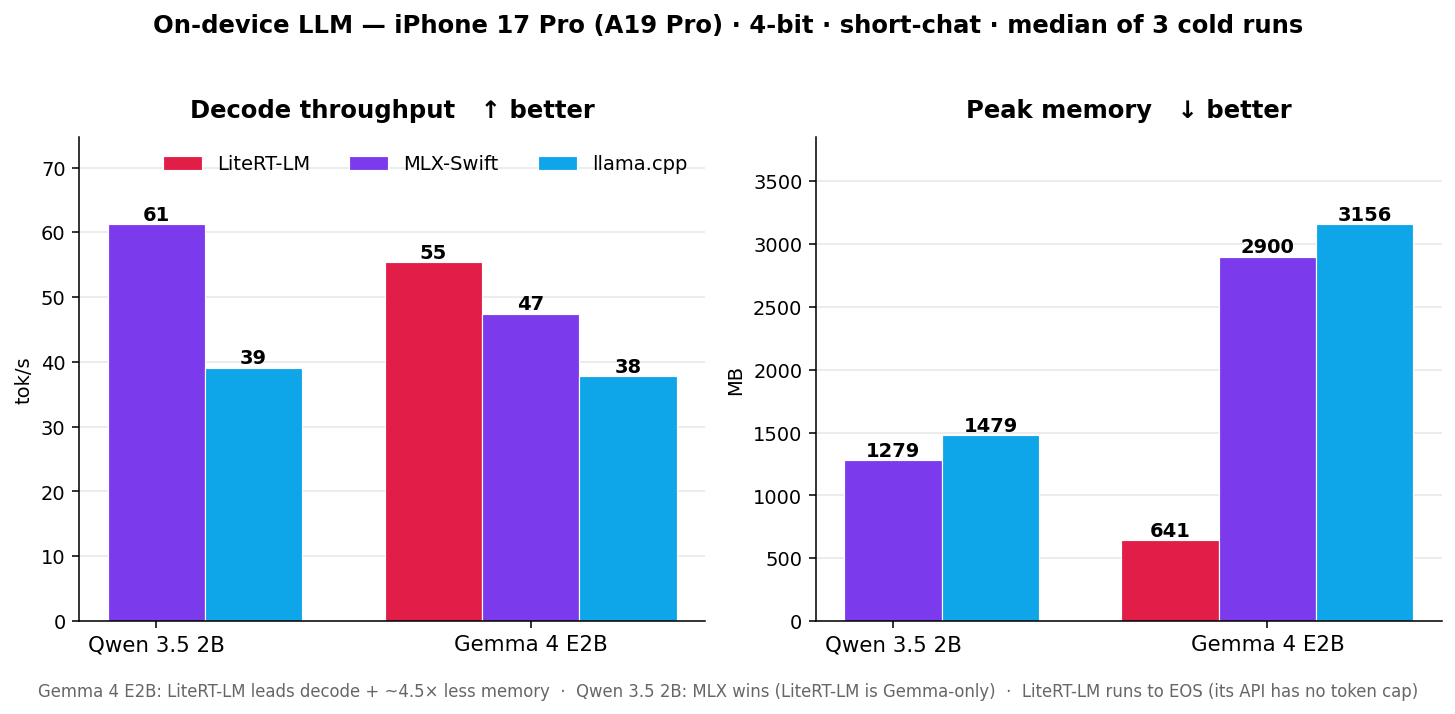
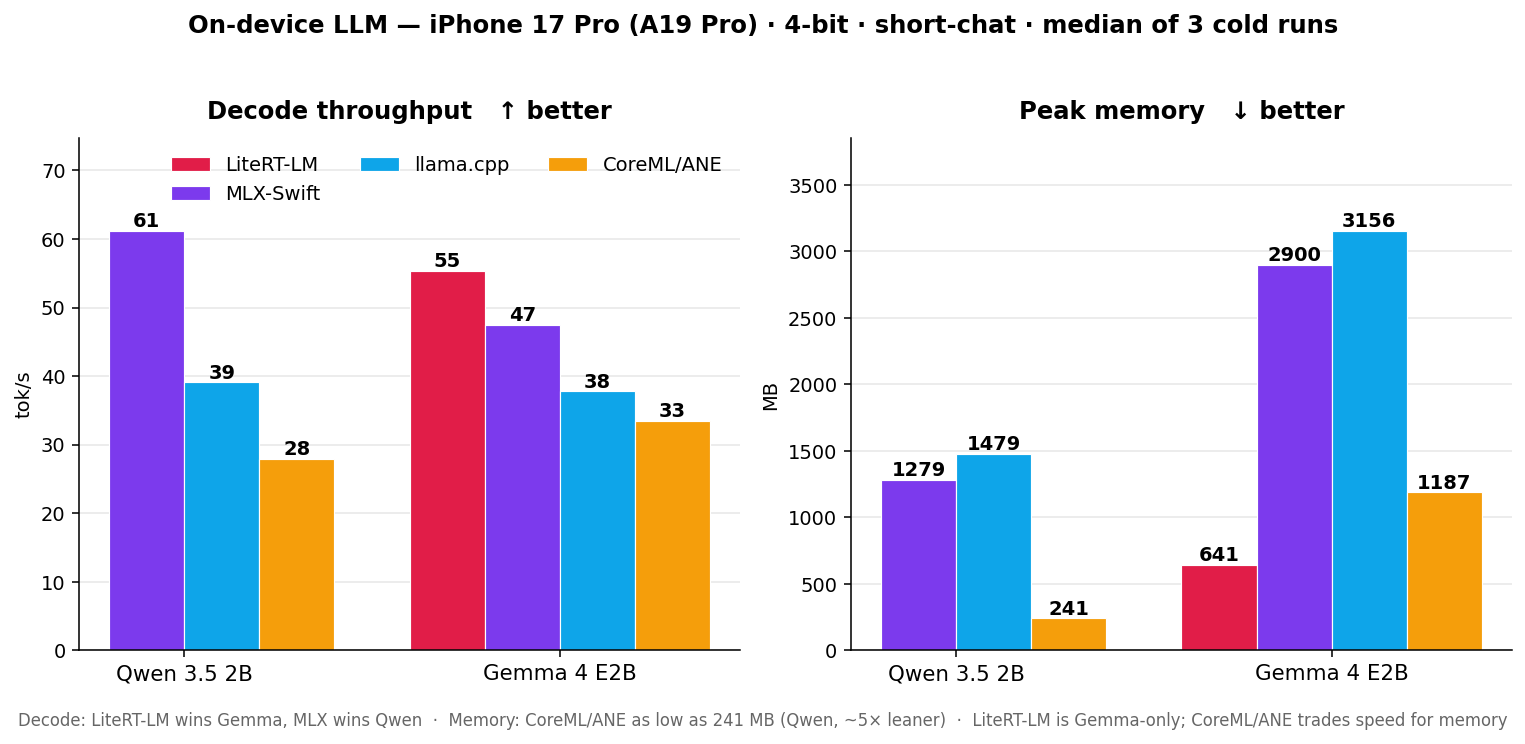
iPhone 17 Pro: add CoreML/ANE rows (Gemma 4 E2B + Qwen 3.5 2B)
CoreML-LLM (john-rocky/CoreML-LLM) on the A19 Neural Engine. Gemma 4 E2B:
33.4 tok/s / 1187 MB; Qwen 3.5 2B: 27.9 tok/s / 241 MB (chunked-MLKV via
Qwen35MLKVGenerator — ~5x leaner than MLX). Slowest decode (ANE trades
throughput for footprint) but near M4 Max parity (33 vs 32.5 — same silicon).
README iPhone TL;DR + chart now 4-way (Gemma) / 3-way (Qwen). CoreML decode
counts streamed pieces (~tokens); models side-loaded from the Mac.

diff --git a/scripts/generate_charts.py b/scripts/generate_charts.py
@@ -282,9 +282,11 @@ def chart_iphone():
     runs = load_runs("iphone17pro", task="short-chat")
     models = ["Qwen 3.5 2B", "Gemma 4 E2B"]
     # litert-lm first to spotlight the Gemma upset; it's Gemma-only (no Qwen bar).
-    runtimes = ["litert-lm", "mlx-swift", "llama.cpp"]
-    rt_label = {"litert-lm": "LiteRT-LM", "mlx-swift": "MLX-Swift", "llama.cpp": "llama.cpp"}
-    color = {"litert-lm": "#e11d48", "mlx-swift": PALETTE["mlx-swift"], "llama.cpp": PALETTE["llama.cpp"]}
+    runtimes = ["litert-lm", "mlx-swift", "llama.cpp", "coreml-llm"]
+    rt_label = {"litert-lm": "LiteRT-LM", "mlx-swift": "MLX-Swift",
+                "llama.cpp": "llama.cpp", "coreml-llm": "CoreML/ANE"}
+    color = {"litert-lm": "#e11d48", "mlx-swift": PALETTE["mlx-swift"],
+             "llama.cpp": PALETTE["llama.cpp"], "coreml-llm": PALETTE["coreml-llm"]}
 
     dec: dict = {}
     mem: dict = {}
@@ -297,8 +299,8 @@ def chart_iphone():
         mem.setdefault((lm, rt), []).append(r["metrics"]["memoryPeakDuringDecodeMB"])
 
     xs = list(range(len(models)))
-    width = 0.26
-    fig, (ax1, ax2) = plt.subplots(1, 2, figsize=(10.5, 4.6))
+    width = 0.20
+    fig, (ax1, ax2) = plt.subplots(1, 2, figsize=(11, 4.8))
 
     def grouped(ax, data, fmt, title, ylab):
         ax.grid(False)
@@ -309,7 +311,7 @@ def chart_iphone():
                 if not vals:
                     continue  # e.g. LiteRT-LM has no Qwen row (Gemma-only catalog)
                 y = median(vals)
-                x = xs[j] + (i - 1) * width
+                x = xs[j] + (i - 1.5) * width
                 ax.bar([x], [y], width,
                        label=(rt_label[rt] if rt not in labelled else None),
                        color=color[rt], edgecolor="white", linewidth=0.6)
@@ -333,7 +335,7 @@ def chart_iphone():
         fontsize=12.5, fontweight="bold", y=1.03,
     )
     fig.text(0.5, -0.03,
-             "Gemma 4 E2B: LiteRT-LM leads decode + ~4.5× less memory  ·  Qwen 3.5 2B: MLX wins (LiteRT-LM is Gemma-only)  ·  LiteRT-LM runs to EOS (its API has no token cap)",
+             "Decode: LiteRT-LM wins Gemma, MLX wins Qwen  ·  Memory: CoreML/ANE as low as 241 MB (Qwen, ~5× leaner)  ·  LiteRT-LM is Gemma-only; CoreML/ANE trades speed for memory",
              ha="center", fontsize=8.5, color="#666")
     plt.tight_layout()
     plt.savefig(OUT / "iphone_decode_mem.png")

diff --git a/README.md b/README.md
@@ -16,26 +16,29 @@ Real LLM inference on a phone — on-device, no server. iPhone 17 Pro, 4-bit, sh
 
 **Decode throughput** — tok/s, higher is better (🏆 = winner):
 
-| Model (4-bit, n=3) | 🔴 LiteRT-LM | 🟣 MLX-Swift | 🔵 llama.cpp |
-|---|---:|---:|---:|
-| Gemma 4 E2B | **55.4** 🏆 | 47.5 | 37.8 |
-| Qwen 3.5 2B | — | **61.2** 🏆 | 39.1 |
+| Model (4-bit, n=3) | 🔴 LiteRT-LM | 🟣 MLX-Swift | 🔵 llama.cpp | 🟠 CoreML/ANE |
+|---|---:|---:|---:|---:|
+| Gemma 4 E2B | **55.4** 🏆 | 47.5 | 37.8 | 33.4 |
+| Qwen 3.5 2B | — | **61.2** 🏆 | 39.1 | 27.9 |
 
 **Peak memory** — MB, lower is better (🏆 = winner):
 
-| Model (4-bit, n=3) | 🔴 LiteRT-LM | 🟣 MLX-Swift | 🔵 llama.cpp |
-|---|---:|---:|---:|
-| Gemma 4 E2B | **641** 🏆 | 2,900 | 3,156 |
-| Qwen 3.5 2B | — | **1,279** 🏆 | 1,479 |
+| Model (4-bit, n=3) | 🔴 LiteRT-LM | 🟣 MLX-Swift | 🔵 llama.cpp | 🟠 CoreML/ANE |
+|---|---:|---:|---:|---:|
+| Gemma 4 E2B | **641** 🏆 | 2,900 | 3,156 | 1,187 |
+| Qwen 3.5 2B | — | 1,279 | 1,479 | **241** 🏆 |
 
-- **The upset — Gemma 4 E2B:** Google's **LiteRT-LM** (INT4-QAT, GPU, its native `.litertlm`) beats MLX-Swift on decode **and** uses **~4.5× less memory** (641 MB vs 2,900). The purpose-built runtime wins on its own format.
-- **MLX-Swift wins Qwen 3.5 2B** — 61 vs 39 tok/s, and leaner RAM. LiteRT-LM has no Qwen entry (its catalog is Gemma-only).
-- **All figures are exact**, including LiteRT-LM's — its tok/s + token counts come straight from LiteRT-LM's own benchmark counters (`getBenchmarkInfo`). One fairness note: LiteRT-LM has no per-call output cap, so it generates to **EOS** (a full ~458-token reply) where MLX / llama.cpp stop at the 128-token budget; decode tok/s is a steady-state rate, so the head-to-head holds.
-- **On-device tax:** ~4–5× slower than the M4 Max at the same model + runtime (Qwen 3.5 2B → 61 tok/s on iPhone vs 292 on M4 Max).
-- **Fully automated, side-loaded:** every run is driven headlessly from a Mac via `devicectl` — nothing typed on the phone — using the *same* methodology as the desktop rows.
-- **Coming next:** CoreML/ANE, Apple Foundation Models, more models and more iPhones / iPads. [One row is a great PR](CONTRIBUTING.md).
+- **The upset — Gemma 4 E2B:** Google's **LiteRT-LM** (INT4-QAT, GPU, its native `.litertlm`) beats MLX-Swift on decode **and** uses ~4.5× less memory (641 MB vs 2,900). The purpose-built runtime wins on its own format.
+- **MLX-Swift wins Qwen 3.5 2B decode** — 61 vs 39 tok/s. (LiteRT-LM has no Qwen entry — its catalog is Gemma-only.)
+- **CoreML / ANE is the memory champion** — Qwen 3.5 2B in just **241 MB** (~5× leaner than MLX's 1,279) via chunked-MLKV on the Neural Engine — but it's the **slowest decode** (ANE trades throughput for footprint), same story as on M4 Max.
+- **ANE is near-parity with the desktop:** CoreML Gemma 4 E2B does 33 tok/s on iPhone vs 32.5 on M4 Max — same silicon family. The **GPU** runtimes pay the real on-device tax: ~4–5× slower than M4 Max (Qwen 3.5 2B → 61 tok/s vs 292).
+- **Counting:** MLX / llama.cpp / LiteRT-LM report exact tokenizer tokens (LiteRT-LM via `getBenchmarkInfo`); CoreML/ANE counts streamed pieces (≈ tokens). LiteRT-LM runs to EOS (no per-call cap → ~458-tok reply vs the others' 128 budget); decode tok/s is a rate, so the head-to-head holds.
+- **Fully automated, side-loaded** via `devicectl` headless mode — nothing typed on the phone, same methodology as the desktop rows.
+- **Coming next:** Apple Foundation Models, more models and more iPhones / iPads. [One row is a great PR](CONTRIBUTING.md).
 
 > **How the LiteRT-LM row was measured:** `google-ai-edge/LiteRT-LM` 0.12.0 running `litert-community/gemma-4-E2B-it.litertlm` (INT4-QAT) on the Metal **GPU** backend, via the in-tree [`MediaPipeRuntime`](ios/BenchmarkApp/Sources/Runtimes/MediaPipeRuntime.swift) adapter — same headless harness + prompt as every other row (3 cold runs, median). Token counts and tok/s come from **LiteRT-LM's own benchmark counters** (`Conversation.getBenchmarkInfo`), so they're exact, not estimated. It generates to EOS (no per-call output cap in the API), so its token count is the model's full reply rather than the 128-token budget — decode tok/s is a rate and stays comparable; memory is exact process RSS. LiteRT-LM is vendored as a **local SwiftPM package** (`scripts/bootstrap.sh` clones it with `GIT_LFS_SKIP_SMUDGE=1`; the released package trips SwiftPM's unsafe-flags rule via its `-all_load`).
+>
+> **How the CoreML/ANE rows were measured:** `john-rocky/CoreML-LLM` on the Neural Engine (`computeUnits: .cpuAndNeuralEngine`) — Gemma 4 E2B via the chunked `.mlmodelc` path, Qwen 3.5 2B via `Qwen35MLKVGenerator` (chunked MLKV, hence the 241 MB). Decode counts streamed pieces (≈ tokens); first-load ANE compilation makes its load time high (and it's the lowest-throughput runtime — the ANE trades speed for memory).
 >
 > Decode tok/s is the headline number; the full per-run audit (prefill, TTFT, inter-token jitter, memory) lives in [`RESULTS.md`](RESULTS.md).
 

diff --git a/RESULTS.md b/RESULTS.md
@@ -22,18 +22,19 @@ On-device / on-Mac measurements. Each row is a `(runtime, model, device, task, b
 - **Runtimes** (5): apple-fm, coreml-llm, litert-lm, llama.cpp, mlx-swift
 - **Models** (18): apple-fm/default, bartowski/Llama-3.2-1B-Instruct-GGUF/Q4_K_M, bartowski/Qwen2.5-0.5B-Instruct-GGUF/Q4_K_M, bartowski/Qwen_Qwen3.5-0.8B-GGUF/Q4_K_M, coreml-llm/gemma4-e2b, coreml-llm/lfm2.5-350m, coreml-llm/qwen2.5-0.5b, coreml-llm/qwen3.5-0.8b, coreml-llm/qwen3.5-2b, litert-community/gemma-4-E2B-it-litert-lm, mlx-community/Qwen2.5-0.5B-Instruct-4bit, mlx-community/Qwen3.5-0.8B-MLX-4bit, mlx-community/Qwen3.5-2B-MLX-4bit, mlx-community/gemma-4-e2b-it-4bit, mlx-community/gemma-4-e4b-it-4bit, unsloth/Qwen3.5-2B-GGUF/Q4_K_M, unsloth/gemma-4-E2B-it-GGUF/Q4_K_M, unsloth/gemma-4-E4B-it-GGUF/Q4_K_M
 - **Tasks** (2): short-chat, sustained-generation
-- **Total runs**: 77
+- **Total runs**: 83
 
 
 ## At-a-glance
 
-The cross-runtime cell with the broadest coverage today — **Gemma 4 E2B** on **Mac M4 Max**, task **sustained-generation**.
+The cross-runtime cell with the broadest coverage today — **Gemma 4 E2B** on **iPhone 17 Pro**, task **short-chat**.
 
 | Runtime | Quant | n | TTFT (ms) | Decode tok/s | Prefill tok/s | Peak Mem (MB) |
 |---|---|---:|---:|---:|---:|---:|
-| coreml-llm | INT4 palettized | 4 | 524 | 32.8 | — | 1037 |
-| llama.cpp | Q4_K_M | 4 | 42 | 120.5 | 2914.5 | 3214 |
-| mlx-swift | Q4 | 4 | 74 | 163.9 | 487.9 | 2825 |
+| coreml-llm | INT4 palettized | 3 | 728 | 33.4 | — | 1187 |
+| litert-lm | INT4 (QAT) | 3 | 267 | 55.4 | 457.6 | 641 |
+| llama.cpp | Q4_K_M | 3 | 114 | 37.8 | 2086.6 | 3156 |
+| mlx-swift | Q4 | 3 | 144 | 47.5 | 179.9 | 2900 |
 
 ## Pivot 1 — by model
 
@@ -43,6 +44,7 @@ Each sub-table fixes the *logical* model (Gemma 4 E2B, Qwen 3.5 2B, …) and var
 
 | Runtime | Model ID | Quant | n | Load (s, median) | TTFT (ms, median) | Prefill tok/s (median) | Decode tok/s (median) | Peak Mem (MB, median) |
 |---|---|---|---:|---:|---:|---:|---:|---:|
+| coreml-llm | `coreml-llm/gemma4-e2b` | INT4 palettized | 3 | 4.7 | 728 | — | 33.4 | 1187 |
 | litert-lm | `litert-community/gemma-4-E2B-it-litert-lm` | INT4 (QAT) | 3 | 0.6 | 267 | 457.6 | 55.4 | 641 |
 | llama.cpp | `unsloth/gemma-4-E2B-it-GGUF/Q4_K_M` | Q4_K_M | 3 | 2.8 | 114 | 2086.6 | 37.8 | 3156 |
 | mlx-swift | `mlx-community/gemma-4-e2b-it-4bit` | Q4 | 3 | 3.0 | 144 | 179.9 | 47.5 | 2900 |
@@ -51,6 +53,7 @@ Each sub-table fixes the *logical* model (Gemma 4 E2B, Qwen 3.5 2B, …) and var
 
 | Runtime | Model ID | Quant | n | Load (s, median) | TTFT (ms, median) | Prefill tok/s (median) | Decode tok/s (median) | Peak Mem (MB, median) |
 |---|---|---|---:|---:|---:|---:|---:|---:|
+| coreml-llm | `coreml-llm/qwen3.5-2b` | INT8 | 3 | 53.8 | 844 | 27.3 | 27.9 | 241 |
 | llama.cpp | `unsloth/Qwen3.5-2B-GGUF/Q4_K_M` | Q4_K_M | 3 | 0.3 | 96 | 2503.9 | 39.1 | 1479 |
 | mlx-swift | `mlx-community/Qwen3.5-2B-MLX-4bit` | Q4 | 3 | 1.9 | 103 | 249.3 | 61.2 | 1279 |
 
@@ -128,6 +131,13 @@ Each sub-table fixes the *logical* model (Gemma 4 E2B, Qwen 3.5 2B, …) and var
 ## Pivot 2 — by runtime
 
 Each sub-table fixes the runtime and varies the model, so you can see how a single backend scales across model sizes within itself.
+
+### `coreml-llm`  (iPhone 17 Pro, short-chat)
+
+| Model | Params (B) | Quant | n | TTFT (ms, median) | Decode tok/s (median) | Peak Mem (MB, median) |
+|---|---:|---|---:|---:|---:|---:|
+| Gemma 4 E2B (CoreML, ANE) | 2 | INT4 palettized | 3 | 728 | 33.4 | 1187 |
+| Qwen 3.5 2B (CoreML, ANE) | 2 | INT8 | 3 | 844 | 27.9 | 241 |
 
 ### `litert-lm`  (iPhone 17 Pro, short-chat)
 
@@ -216,6 +226,8 @@ Decode tok/s is an average. The percentiles below are the gap between consecutiv
 
 | Device | Runtime | Model | n | TTFT (ms, median) | ITL p50 (ms) | ITL p95 (ms) | ITL p99 (ms) |
 |---|---|---|---:|---:|---:|---:|---:|
+| iPhone 17 Pro | coreml-llm | Gemma 4 E2B (CoreML, ANE) | 3 | 728 | 29.8 | 31.2 | 33.4 |
+| iPhone 17 Pro | coreml-llm | Qwen 3.5 2B (CoreML, ANE) | 3 | 844 | 35.4 | 38.8 | 39.9 |
 | iPhone 17 Pro | litert-lm | Gemma 4 E2B (.litertlm) | 3 | 267 | 17.3 | 18.8 | 19.0 |
 | iPhone 17 Pro | llama.cpp | Qwen 3.5 2B Q4_K_M (GGUF) | 3 | 96 | 24.9 | 26.7 | 29.1 |
 | iPhone 17 Pro | llama.cpp | Gemma 4 E2B Q4_K_M (GGUF) | 3 | 114 | 25.2 | 27.5 | 29.1 |
@@ -258,6 +270,12 @@ Every raw measurement. Use Pivots 1 and 2 above for analysis; this table is the 
 
 | Runtime | Model | Quant | Run | Load (s) | TTFT (ms) | Prefill tok/s | Decode tok/s | Peak Mem (MB) | JSONL |
 |---|---|---|---:|---:|---:|---:|---:|---:|---|
+| coreml-llm | Gemma 4 E2B (CoreML, ANE) | INT4 palettized | 1 | 91.6 | 728 | — | 33.5 | 795 | `iphone17pro-coreml-llm-gemma-4-e2b-short-chat-run1.jsonl` |
+| coreml-llm | Gemma 4 E2B (CoreML, ANE) | INT4 palettized | 2 | 4.2 | 1047 | — | 33.4 | 1187 | `iphone17pro-coreml-llm-gemma-4-e2b-short-chat-run2.jsonl` |
+| coreml-llm | Gemma 4 E2B (CoreML, ANE) | INT4 palettized | 3 | 4.7 | 712 | — | 33.3 | 1195 | `iphone17pro-coreml-llm-gemma-4-e2b-short-chat-run3.jsonl` |
+| coreml-llm | Qwen 3.5 2B (CoreML, ANE) | INT8 | 1 | 52.0 | 844 | 27.3 | 27.9 | 233 | `iphone17pro-coreml-llm-qwen3.5-2b-short-chat-run1.jsonl` |
+| coreml-llm | Qwen 3.5 2B (CoreML, ANE) | INT8 | 2 | 54.1 | 895 | 25.7 | 26.9 | 241 | `iphone17pro-coreml-llm-qwen3.5-2b-short-chat-run2.jsonl` |
+| coreml-llm | Qwen 3.5 2B (CoreML, ANE) | INT8 | 3 | 53.8 | 831 | 27.7 | 28.1 | 243 | `iphone17pro-coreml-llm-qwen3.5-2b-short-chat-run3.jsonl` |
 | litert-lm | Gemma 4 E2B (.litertlm) | INT4 (QAT) | 1 | 0.8 | 735 | 70.7 | 53.2 | 655 | `iphone17pro-litert-lm-gemma-4-e2b-short-chat-run1.jsonl` |
 | litert-lm | Gemma 4 E2B (.litertlm) | INT4 (QAT) | 2 | 0.5 | 267 | 457.6 | 56.4 | 641 | `iphone17pro-litert-lm-gemma-4-e2b-short-chat-run2.jsonl` |
 | litert-lm | Gemma 4 E2B (.litertlm) | INT4 (QAT) | 3 | 0.6 | 69 | 471.6 | 55.4 | 640 | `iphone17pro-litert-lm-gemma-4-e2b-short-chat-run3.jsonl` |